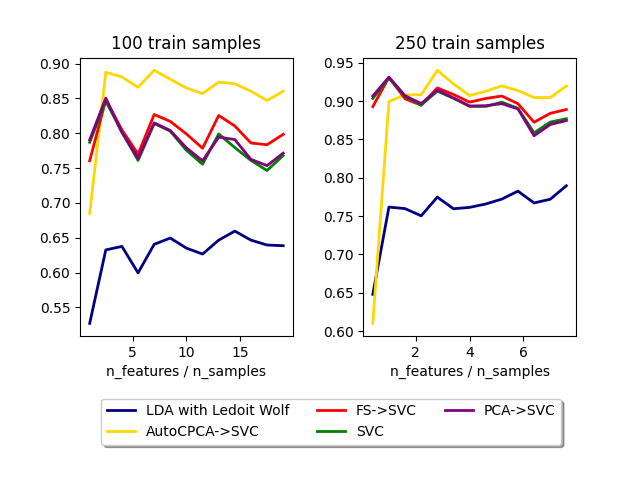
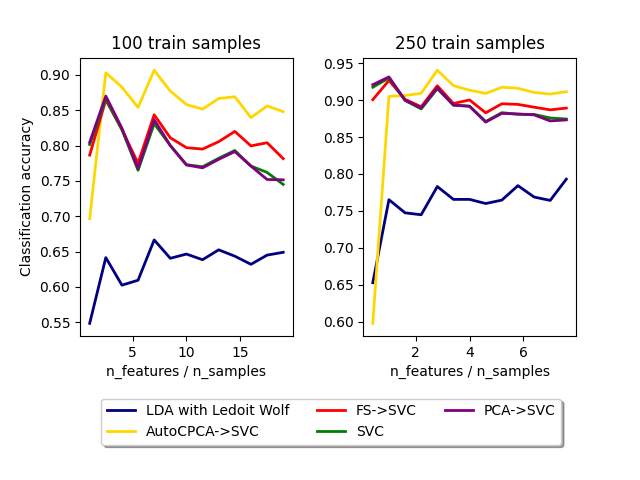
add y_label

diff --git a/examples/features_per_sample_comparison.py b/examples/features_per_sample_comparison.py
@@ -63,6 +63,9 @@ for num_c, n_samples in enumerate([200, 500]):
     ax[num_c].plot(features_samples_ratio, acc_clf[3], linewidth=2, color='green')
     ax[num_c].plot(features_samples_ratio, acc_clf[4], linewidth=2, color='purple')
 
+    if num_c == 0:
+        ax[num_c].set_ylabel('Classification accuracy')
+
     ax[num_c].set_xlabel('n_features / n_samples')
 
     ax[num_c].set_title(f"{int(n_samples*train_test_ratio)} train samples")
